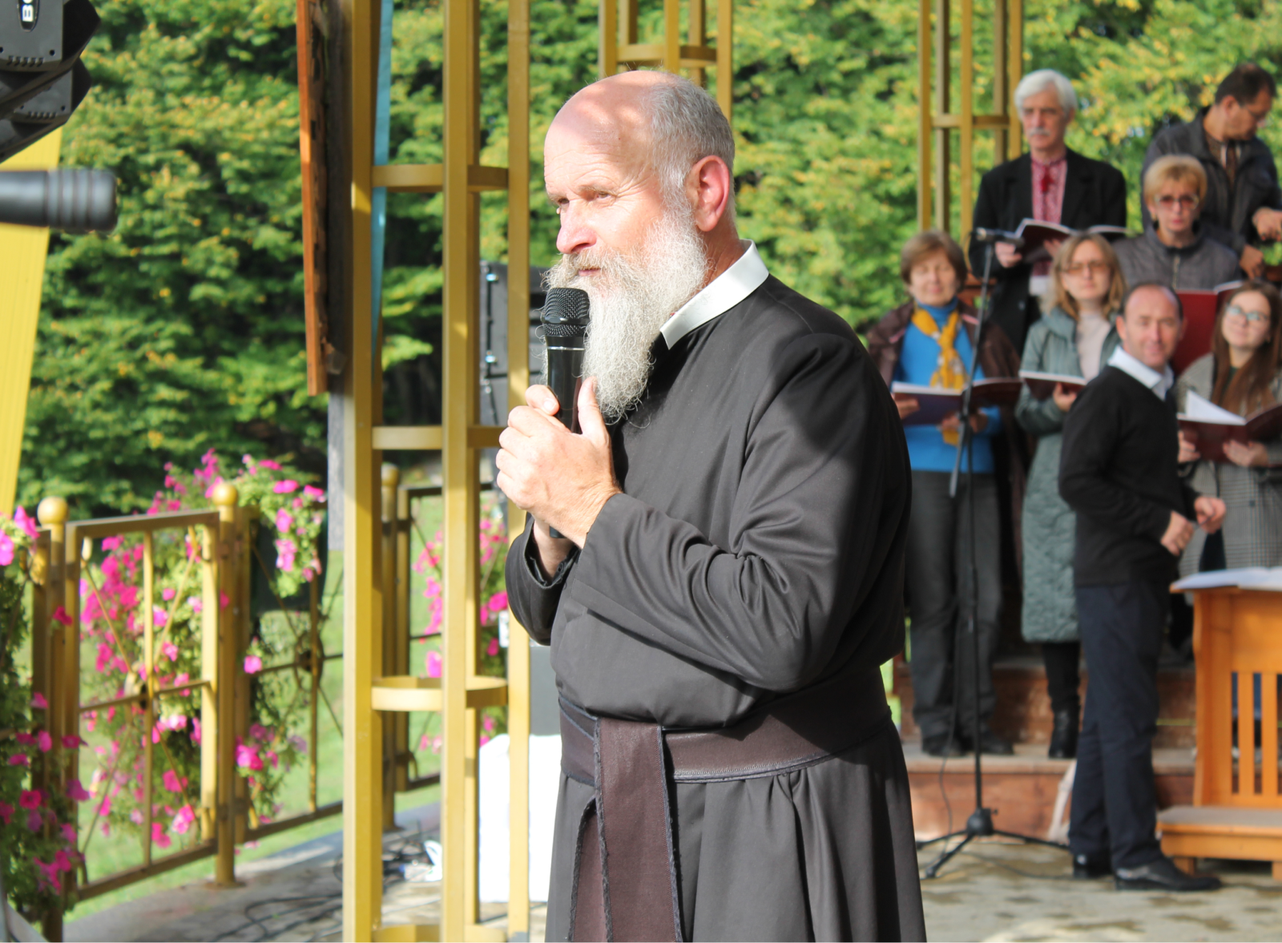
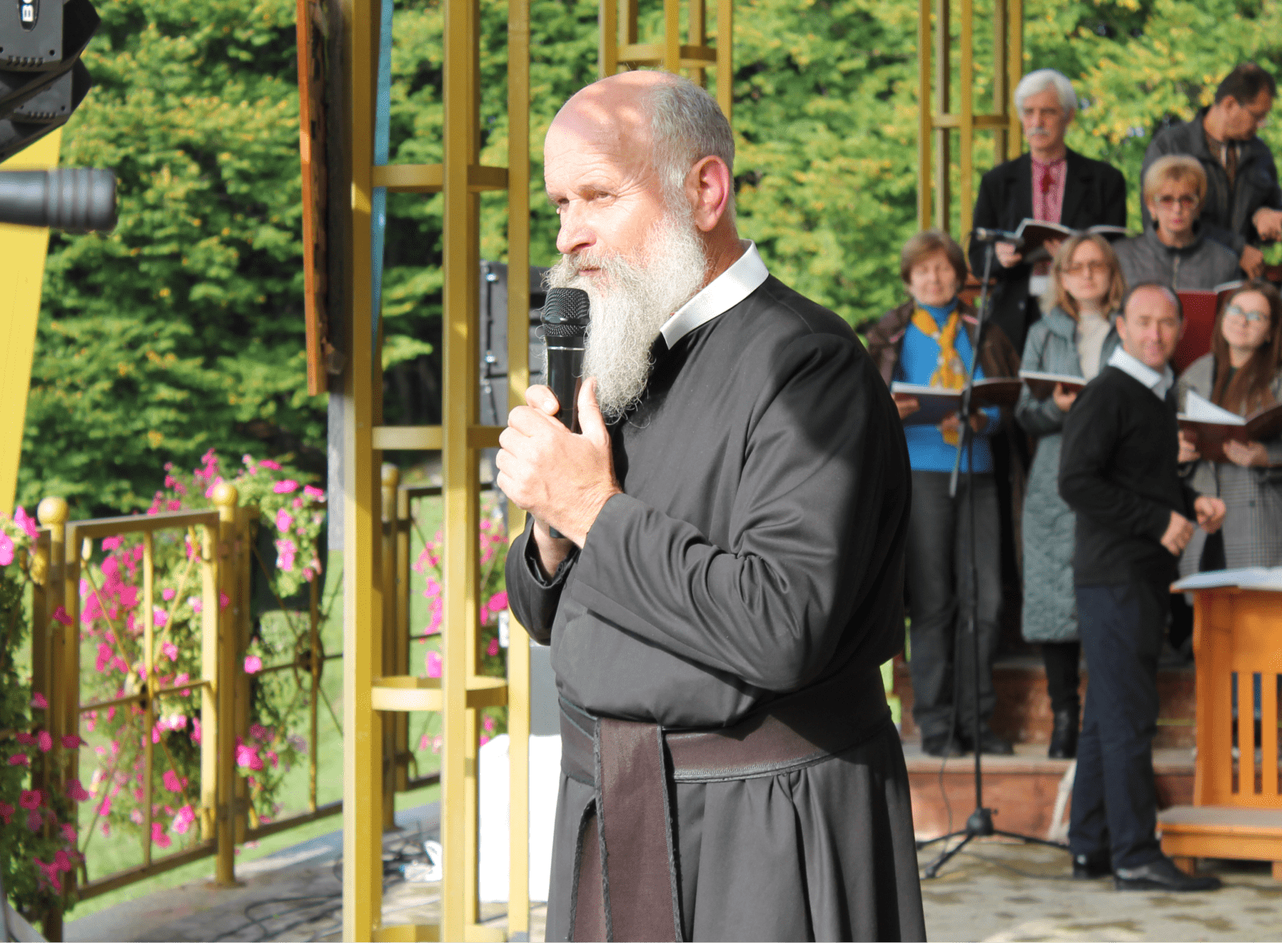
compress gallery images

Changed region(s): [[0.9688, 0.887, 1.0, 0.9176], [0.5312, 0.1835, 0.5625, 0.2141], [0.1875, 0.7952, 0.2188, 0.8258]]

diff --git a/app/homepage.html b/app/homepage.html
@@ -47,32 +47,33 @@
                 <li class="overlay-navigation-item"><a href="#">Видання</a></li>
                 <li class="overlay-navigation-item"><a href="#">Контакти</a></li>
             </ul>
-            
-            <a href="#" class="overlay-tel">+38 096 313 34 54</a>
-            <a href="#" class="overlay-email">pogonia@gmail.com</a>
-    <ul class="ovarlay-lang">
+            <ul class="ovarlay-lang">
         <li class="overlay-lang-item">UA</li>
         <li class="overlay-lang-item">Eng</li>
     </ul>
     <div class="overlay-icons">
       
-            <!-- header-right-icons-item -->
-            <a href="https://facebook.com/" target="_blank"><svg width="22" height="22" viewBox="0 0 22 22" fill="none" xmlns="http://www.w3.org/2000/svg">
-                <path d="M11 0C4.9247 0 0 4.9247 0 11C0 16.4901 4.0227 21.0408 9.2818 21.8669V14.179H6.4878V11H9.2818V8.5767C9.2818 5.8201 10.923 4.2977 13.4365 4.2977C14.6399 4.2977 15.8983 4.5122 15.8983 4.5122V7.2182H14.5123C13.145 7.2182 12.7193 8.0663 12.7193 8.9364V11H15.7696L15.2823 14.179H12.7193V21.8669C17.9773 21.0419 22 16.489 22 11C22 4.9247 17.0753 0 11 0Z" fill="black"/>
-                </svg>
-                
-                </a>
-            <a href="https://instagram.com/" target="_blank"><svg width="20" height="20" viewBox="0 0 20 20" fill="none" xmlns="http://www.w3.org/2000/svg">
-                <path d="M10 0C12.717 0 13.056 0.00999994 14.122 0.06C15.187 0.11 15.912 0.277 16.55 0.525C17.21 0.779 17.766 1.123 18.322 1.678C18.8305 2.1779 19.224 2.78259 19.475 3.45C19.722 4.087 19.89 4.813 19.94 5.878C19.987 6.944 20 7.283 20 10C20 12.717 19.99 13.056 19.94 14.122C19.89 15.187 19.722 15.912 19.475 16.55C19.2247 17.2178 18.8311 17.8226 18.322 18.322C17.822 18.8303 17.2173 19.2238 16.55 19.475C15.913 19.722 15.187 19.89 14.122 19.94C13.056 19.987 12.717 20 10 20C7.283 20 6.944 19.99 5.878 19.94C4.813 19.89 4.088 19.722 3.45 19.475C2.78233 19.2245 2.17753 18.8309 1.678 18.322C1.16941 17.8222 0.775931 17.2175 0.525 16.55C0.277 15.913 0.11 15.187 0.0599999 14.122C0.0129999 13.056 0 12.717 0 10C0 7.283 0.00999994 6.944 0.0599999 5.878C0.11 4.812 0.277 4.088 0.525 3.45C0.775236 2.78218 1.1688 2.17732 1.678 1.678C2.17767 1.16923 2.78243 0.77573 3.45 0.525C4.088 0.277 4.812 0.11 5.878 0.06C6.944 0.0129999 7.283 0 10 0ZM10 5C8.67392 5 7.40215 5.52679 6.46447 6.46447C5.52678 7.40215 5 8.67392 5 10C5 11.3261 5.52678 12.5979 6.46447 13.5355C7.40215 14.4732 8.67392 15 10 15C11.3261 15 12.5979 14.4732 13.5355 13.5355C14.4732 12.5979 15 11.3261 15 10C15 8.67392 14.4732 7.40215 13.5355 6.46447C12.5979 5.52679 11.3261 5 10 5ZM16.5 4.75C16.5 4.41848 16.3683 4.10054 16.1339 3.86612C15.8995 3.6317 15.5815 3.5 15.25 3.5C14.9185 3.5 14.6005 3.6317 14.3661 3.86612C14.1317 4.10054 14 4.41848 14 4.75C14 5.08152 14.1317 5.39946 14.3661 5.63388C14.6005 5.86831 14.9185 6 15.25 6C15.5815 6 15.8995 5.86831 16.1339 5.63388C16.3683 5.39946 16.5 5.08152 16.5 4.75ZM10 7C10.7956 7 11.5587 7.31607 12.1213 7.87868C12.6839 8.44129 13 9.20435 13 10C13 10.7957 12.6839 11.5587 12.1213 12.1213C11.5587 12.6839 10.7956 13 10 13C9.20435 13 8.44129 12.6839 7.87868 12.1213C7.31607 11.5587 7 10.7957 7 10C7 9.20435 7.31607 8.44129 7.87868 7.87868C8.44129 7.31607 9.20435 7 10 7Z" fill="black"/>
-                </svg>
-                
-                </a>
-            <a href="https://youtube.com/" target="_blank"><svg width="24" height="18" viewBox="0 0 24 18" fill="none" xmlns="http://www.w3.org/2000/svg">
-                <path d="M22.6034 2.88664C23.1111 4.86664 23.1111 8.99997 23.1111 8.99997C23.1111 8.99997 23.1111 13.1333 22.6034 15.1133C22.3211 16.2077 21.4956 17.0689 20.45 17.36C18.5511 17.8889 12 17.8889 12 17.8889C12 17.8889 5.45225 17.8889 3.55003 17.36C2.50003 17.0644 1.67558 16.2044 1.39669 15.1133C0.888916 13.1333 0.888916 8.99997 0.888916 8.99997C0.888916 8.99997 0.888916 4.86664 1.39669 2.88664C1.67892 1.79219 2.50447 0.931084 3.55003 0.639973C5.45225 0.111084 12 0.111084 12 0.111084C12 0.111084 18.5511 0.111084 20.45 0.639973C21.5 0.935528 22.3245 1.79553 22.6034 2.88664ZM9.77781 12.8889L16.4445 8.99997L9.77781 5.11108V12.8889Z" fill="black"/>
-                </svg>
-                
-  </a>
-    </div>
+        <!-- header-right-icons-item -->
+        <a href="https://facebook.com/" target="_blank"><svg width="22" height="22" viewBox="0 0 22 22" fill="none" xmlns="http://www.w3.org/2000/svg">
+            <path d="M11 0C4.9247 0 0 4.9247 0 11C0 16.4901 4.0227 21.0408 9.2818 21.8669V14.179H6.4878V11H9.2818V8.5767C9.2818 5.8201 10.923 4.2977 13.4365 4.2977C14.6399 4.2977 15.8983 4.5122 15.8983 4.5122V7.2182H14.5123C13.145 7.2182 12.7193 8.0663 12.7193 8.9364V11H15.7696L15.2823 14.179H12.7193V21.8669C17.9773 21.0419 22 16.489 22 11C22 4.9247 17.0753 0 11 0Z" fill="black"/>
+            </svg>
+            
+            </a>
+        <a href="https://instagram.com/" target="_blank"><svg width="20" height="20" viewBox="0 0 20 20" fill="none" xmlns="http://www.w3.org/2000/svg">
+            <path d="M10 0C12.717 0 13.056 0.00999994 14.122 0.06C15.187 0.11 15.912 0.277 16.55 0.525C17.21 0.779 17.766 1.123 18.322 1.678C18.8305 2.1779 19.224 2.78259 19.475 3.45C19.722 4.087 19.89 4.813 19.94 5.878C19.987 6.944 20 7.283 20 10C20 12.717 19.99 13.056 19.94 14.122C19.89 15.187 19.722 15.912 19.475 16.55C19.2247 17.2178 18.8311 17.8226 18.322 18.322C17.822 18.8303 17.2173 19.2238 16.55 19.475C15.913 19.722 15.187 19.89 14.122 19.94C13.056 19.987 12.717 20 10 20C7.283 20 6.944 19.99 5.878 19.94C4.813 19.89 4.088 19.722 3.45 19.475C2.78233 19.2245 2.17753 18.8309 1.678 18.322C1.16941 17.8222 0.775931 17.2175 0.525 16.55C0.277 15.913 0.11 15.187 0.0599999 14.122C0.0129999 13.056 0 12.717 0 10C0 7.283 0.00999994 6.944 0.0599999 5.878C0.11 4.812 0.277 4.088 0.525 3.45C0.775236 2.78218 1.1688 2.17732 1.678 1.678C2.17767 1.16923 2.78243 0.77573 3.45 0.525C4.088 0.277 4.812 0.11 5.878 0.06C6.944 0.0129999 7.283 0 10 0ZM10 5C8.67392 5 7.40215 5.52679 6.46447 6.46447C5.52678 7.40215 5 8.67392 5 10C5 11.3261 5.52678 12.5979 6.46447 13.5355C7.40215 14.4732 8.67392 15 10 15C11.3261 15 12.5979 14.4732 13.5355 13.5355C14.4732 12.5979 15 11.3261 15 10C15 8.67392 14.4732 7.40215 13.5355 6.46447C12.5979 5.52679 11.3261 5 10 5ZM16.5 4.75C16.5 4.41848 16.3683 4.10054 16.1339 3.86612C15.8995 3.6317 15.5815 3.5 15.25 3.5C14.9185 3.5 14.6005 3.6317 14.3661 3.86612C14.1317 4.10054 14 4.41848 14 4.75C14 5.08152 14.1317 5.39946 14.3661 5.63388C14.6005 5.86831 14.9185 6 15.25 6C15.5815 6 15.8995 5.86831 16.1339 5.63388C16.3683 5.39946 16.5 5.08152 16.5 4.75ZM10 7C10.7956 7 11.5587 7.31607 12.1213 7.87868C12.6839 8.44129 13 9.20435 13 10C13 10.7957 12.6839 11.5587 12.1213 12.1213C11.5587 12.6839 10.7956 13 10 13C9.20435 13 8.44129 12.6839 7.87868 12.1213C7.31607 11.5587 7 10.7957 7 10C7 9.20435 7.31607 8.44129 7.87868 7.87868C8.44129 7.31607 9.20435 7 10 7Z" fill="black"/>
+            </svg>
+            
+            </a>
+        <a href="https://youtube.com/" target="_blank"><svg width="24" height="18" viewBox="0 0 24 18" fill="none" xmlns="http://www.w3.org/2000/svg">
+            <path d="M22.6034 2.88664C23.1111 4.86664 23.1111 8.99997 23.1111 8.99997C23.1111 8.99997 23.1111 13.1333 22.6034 15.1133C22.3211 16.2077 21.4956 17.0689 20.45 17.36C18.5511 17.8889 12 17.8889 12 17.8889C12 17.8889 5.45225 17.8889 3.55003 17.36C2.50003 17.0644 1.67558 16.2044 1.39669 15.1133C0.888916 13.1333 0.888916 8.99997 0.888916 8.99997C0.888916 8.99997 0.888916 4.86664 1.39669 2.88664C1.67892 1.79219 2.50447 0.931084 3.55003 0.639973C5.45225 0.111084 12 0.111084 12 0.111084C12 0.111084 18.5511 0.111084 20.45 0.639973C21.5 0.935528 22.3245 1.79553 22.6034 2.88664ZM9.77781 12.8889L16.4445 8.99997L9.77781 5.11108V12.8889Z" fill="black"/>
+            </svg>
+            
+</a>
+</div>
+            <a href="#" class="overlay-tel">+38 096 313 34 54</a>
+            <a href="#" class="overlay-email">pogonia@gmail.com</a>
+    
+  
         </div>
       </div>
         <header class="header" data-aos="fade-zoom-in"  data-aos-duration="300" data-aos-easing="ease-in-back"
@@ -770,17 +771,20 @@
                 <a href="#" class="footer-phone">+38 096 313 34 54</a>
                 <a href="#" class="footer-email">pogonia@gmail.com</a>
                 <div class="footer-social-media">
-                    <a href="https://m.facebook.com/" target="_blank"><svg class="footer-social-med-item" width="20" height="20" viewBox="0 0 20 20" xmlns="http://www.w3.org/2000/svg">
-                        <path d="M10 0C4.477 0 0 4.477 0 10C0 14.991 3.657 19.128 8.438 19.879V12.89H5.898V10H8.438V7.797C8.438 5.291 9.93 3.907 12.215 3.907C13.309 3.907 14.453 4.102 14.453 4.102V6.562H13.193C11.95 6.562 11.563 7.333 11.563 8.124V10H14.336L13.893 12.89H11.563V19.879C16.343 19.129 20 14.99 20 10C20 4.477 15.523 0 10 0Z" fill="white"></path>
-                         </svg>
+                    <a href="https://m.facebook.com/" target="_blank"><svg class="header-right-icons-item" width="30" height="31" viewBox="0 0 30 31" fill="none" xmlns="http://www.w3.org/2000/svg">
+                        <path d="M15 3.27637C8.09625 3.27637 2.5 8.87262 2.5 15.7764C2.5 22.0151 7.07125 27.1864 13.0475 28.1251V19.3889H9.8725V15.7764H13.0475V13.0226C13.0475 9.89012 14.9125 8.16012 17.7688 8.16012C19.1363 8.16012 20.5662 8.40387 20.5662 8.40387V11.4789H18.9913C17.4375 11.4789 16.9538 12.4426 16.9538 13.4314V15.7764H20.42L19.8663 19.3889H16.9538V28.1251C22.9288 27.1876 27.5 22.0139 27.5 15.7764C27.5 8.87262 21.9038 3.27637 15 3.27637Z" fill="white"/>
+                        </svg>
+                        
 </a>
-                    <a href="https://www.instagram.com/"  target="_blank"><svg width="18" height="18" class="footer-social-med-item" viewBox="0 0 18 18"  xmlns="http://www.w3.org/2000/svg">
-                        <path d="M9 0C11.4453 0 11.7504 0.00899995 12.7098 0.054C13.6683 0.099 14.3208 0.2493 14.895 0.4725C15.489 0.7011 15.9894 1.0107 16.4898 1.5102C16.9474 1.96011 17.3016 2.50433 17.5275 3.105C17.7498 3.6783 17.901 4.3317 17.946 5.2902C17.9883 6.2496 18 6.5547 18 9C18 11.4453 17.991 11.7504 17.946 12.7098C17.901 13.6683 17.7498 14.3208 17.5275 14.895C17.3022 15.496 16.948 16.0404 16.4898 16.4898C16.0398 16.9473 15.4956 17.3014 14.895 17.5275C14.3217 17.7498 13.6683 17.901 12.7098 17.946C11.7504 17.9883 11.4453 18 9 18C6.5547 18 6.2496 17.991 5.2902 17.946C4.3317 17.901 3.6792 17.7498 3.105 17.5275C2.50409 17.302 1.95977 16.9479 1.5102 16.4898C1.05247 16.04 0.698338 15.4957 0.4725 14.895C0.2493 14.3217 0.0989999 13.6683 0.0539999 12.7098C0.0116999 11.7504 0 11.4453 0 9C0 6.5547 0.00899995 6.2496 0.0539999 5.2902C0.0989999 4.3308 0.2493 3.6792 0.4725 3.105C0.697713 2.50396 1.05192 1.95959 1.5102 1.5102C1.9599 1.05231 2.50419 0.698157 3.105 0.4725C3.6792 0.2493 4.3308 0.099 5.2902 0.054C6.2496 0.0117 6.5547 0 9 0ZM9 4.5C7.80653 4.5 6.66193 4.97411 5.81802 5.81802C4.97411 6.66193 4.5 7.80653 4.5 9C4.5 10.1935 4.97411 11.3381 5.81802 12.182C6.66193 13.0259 7.80653 13.5 9 13.5C10.1935 13.5 11.3381 13.0259 12.182 12.182C13.0259 11.3381 13.5 10.1935 13.5 9C13.5 7.80653 13.0259 6.66193 12.182 5.81802C11.3381 4.97411 10.1935 4.5 9 4.5ZM14.85 4.275C14.85 3.97663 14.7315 3.69048 14.5205 3.47951C14.3095 3.26853 14.0234 3.15 13.725 3.15C13.4266 3.15 13.1405 3.26853 12.9295 3.47951C12.7185 3.69048 12.6 3.97663 12.6 4.275C12.6 4.57337 12.7185 4.85952 12.9295 5.0705C13.1405 5.28147 13.4266 5.4 13.725 5.4C14.0234 5.4 14.3095 5.28147 14.5205 5.0705C14.7315 4.85952 14.85 4.57337 14.85 4.275ZM9 6.3C9.71608 6.3 10.4028 6.58446 10.9092 7.09081C11.4155 7.59716 11.7 8.28392 11.7 9C11.7 9.71609 11.4155 10.4028 10.9092 10.9092C10.4028 11.4155 9.71608 11.7 9 11.7C8.28392 11.7 7.59716 11.4155 7.09081 10.9092C6.58446 10.4028 6.3 9.71609 6.3 9C6.3 8.28392 6.58446 7.59716 7.09081 7.09081C7.59716 6.58446 8.28392 6.3 9 6.3Z" fill="white"></path>
-                    </svg>
+                    <a href="https://www.instagram.com/"  target="_blank"><svg class="header-right-icons-item" width="30" height="31" viewBox="0 0 30 31" fill="none" xmlns="http://www.w3.org/2000/svg">
+                        <path d="M15 4.52637C18.0566 4.52637 18.438 4.53762 19.6373 4.59387C20.8354 4.65012 21.651 4.83799 22.3688 5.11699C23.1113 5.40274 23.7368 5.78974 24.3623 6.41412C24.9343 6.9765 25.377 7.65678 25.6594 8.40762C25.9373 9.12424 26.1263 9.94099 26.1825 11.1391C26.2354 12.3384 26.25 12.7197 26.25 15.7764C26.25 18.833 26.2388 19.2144 26.1825 20.4136C26.1263 21.6117 25.9373 22.4274 25.6594 23.1451C25.3778 23.8964 24.935 24.5768 24.3623 25.1386C23.7997 25.7105 23.1195 26.1531 22.3688 26.4357C21.6521 26.7136 20.8354 26.9026 19.6373 26.9589C18.438 27.0117 18.0566 27.0264 15 27.0264C11.9434 27.0264 11.562 27.0151 10.3628 26.9589C9.16463 26.9026 8.349 26.7136 7.63125 26.4357C6.88012 26.1539 6.19972 25.7112 5.63775 25.1386C5.06558 24.5763 4.62292 23.896 4.34063 23.1451C4.06163 22.4285 3.87375 21.6117 3.8175 20.4136C3.76462 19.2144 3.75 18.833 3.75 15.7764C3.75 12.7197 3.76125 12.3384 3.8175 11.1391C3.87375 9.93987 4.06163 9.12537 4.34063 8.40762C4.62214 7.65632 5.0649 6.97585 5.63775 6.41412C6.19988 5.84175 6.88023 5.39906 7.63125 5.11699C8.349 4.83799 9.1635 4.65012 10.3628 4.59387C11.562 4.54099 11.9434 4.52637 15 4.52637ZM15 10.1514C13.5082 10.1514 12.0774 10.744 11.0225 11.7989C9.96763 12.8538 9.375 14.2845 9.375 15.7764C9.375 17.2682 9.96763 18.699 11.0225 19.7538C12.0774 20.8087 13.5082 21.4014 15 21.4014C16.4918 21.4014 17.9226 20.8087 18.9775 19.7538C20.0324 18.699 20.625 17.2682 20.625 15.7764C20.625 14.2845 20.0324 12.8538 18.9775 11.7989C17.9226 10.744 16.4918 10.1514 15 10.1514ZM22.3125 9.87012C22.3125 9.49716 22.1643 9.13947 21.9006 8.87575C21.6369 8.61203 21.2792 8.46387 20.9063 8.46387C20.5333 8.46387 20.1756 8.61203 19.9119 8.87575C19.6482 9.13947 19.5 9.49716 19.5 9.87012C19.5 10.2431 19.6482 10.6008 19.9119 10.8645C20.1756 11.1282 20.5333 11.2764 20.9063 11.2764C21.2792 11.2764 21.6369 11.1282 21.9006 10.8645C22.1643 10.6008 22.3125 10.2431 22.3125 9.87012ZM15 12.4014C15.8951 12.4014 16.7536 12.7569 17.3865 13.3899C18.0194 14.0228 18.375 14.8813 18.375 15.7764C18.375 16.6715 18.0194 17.5299 17.3865 18.1629C16.7536 18.7958 15.8951 19.1514 15 19.1514C14.1049 19.1514 13.2465 18.7958 12.6135 18.1629C11.9806 17.5299 11.625 16.6715 11.625 15.7764C11.625 14.8813 11.9806 14.0228 12.6135 13.3899C13.2465 12.7569 14.1049 12.4014 15 12.4014Z" fill="white"/>
+                        </svg>
+                        
 </a> 
-                    <a  href="https://www.youtube.com/"  target="_blank"><svg width="20" height="16" class="footer-social-med-item" viewBox="0 0 20 16"  xmlns="http://www.w3.org/2000/svg">
-                        <path d="M19.543 2.498C20 4.28 20 8 20 8C20 8 20 11.72 19.543 13.502C19.289 14.487 18.546 15.262 17.605 15.524C15.896 16 10 16 10 16C10 16 4.107 16 2.395 15.524C1.45 15.258 0.708 14.484 0.457 13.502C2.98023e-08 11.72 0 8 0 8C0 8 2.98023e-08 4.28 0.457 2.498C0.711 1.513 1.454 0.738 2.395 0.476C4.107 -1.78814e-07 10 0 10 0C10 0 15.896 -1.78814e-07 17.605 0.476C18.55 0.742 19.292 1.516 19.543 2.498ZM8 11.5L14 8L8 4.5V11.5Z" fill="white"></path>
-                        </svg></a>
+                    <a  href="https://www.youtube.com/"  target="_blank"><svg  class="header-right-icons-item" width="30" height="31" viewBox="0 0 30 31" fill="none" xmlns="http://www.w3.org/2000/svg">
+                        <path d="M26.9288 8.89887C27.5 11.1264 27.5 15.7764 27.5 15.7764C27.5 15.7764 27.5 20.4264 26.9288 22.6539C26.6113 23.8851 25.6825 24.8539 24.5063 25.1814C22.37 25.7764 15 25.7764 15 25.7764C15 25.7764 7.63375 25.7764 5.49375 25.1814C4.3125 24.8489 3.385 23.8814 3.07125 22.6539C2.5 20.4264 2.5 15.7764 2.5 15.7764C2.5 15.7764 2.5 11.1264 3.07125 8.89887C3.38875 7.66762 4.3175 6.69887 5.49375 6.37137C7.63375 5.77637 15 5.77637 15 5.77637C15 5.77637 22.37 5.77637 24.5063 6.37137C25.6875 6.70387 26.615 7.67137 26.9288 8.89887ZM12.5 20.1514L20 15.7764L12.5 11.4014V20.1514Z" fill="white"/>
+                        </svg>
+                        </a>
                 </div>
             </div>  
            

diff --git a/app/galery.html b/app/galery.html
@@ -90,9 +90,9 @@
     
 </header>
 
-<div id="myNav" class="overlay">
-    <ul class="overlay-navigation">
-        <li class="overlay-navigation-item"><a href="homepage.html">Головна</a></li>
+<div id="myNav" class="overlay" id="overlay-home">
+    <ul class="overlay-navigation" id="home-overlay-list">
+        <li class="overlay-navigation-item" id="home-list-item"><a href="homepage.html">Головна</a></li>
         <li class="overlay-navigation-item"><a href="homepage.html#aboutpogonya">Про Погоню</a></li>
         <li class="overlay-navigation-item"><a href="#">Про Отців</a></li>
         <li class="overlay-navigation-item"><a href="homepage.html#schedule">Розклад Богослужінь</a></li>
@@ -102,21 +102,24 @@
         <li class="overlay-navigation-item"><a href="#">Видання</a></li>
         <li class="overlay-navigation-item"><a href="#">Контакти</a></li>
     </ul>
- 
-    <p class="overlay-tel">+38 096 313 34 54</p>
-    <p class="overlay-email">pogonia@gmail.com</p>
+    
+    
     <ul class="ovarlay-lang">
         <li class="overlay-lang-item">UA</li>
         <li class="overlay-lang-item">Eng</li>
     </ul>
     <div class="overlay-icons">
-         <img src="img/icons/facebook-black.svg" alt="">
-         <img src="img/icons/instagram-black.svg" alt="">
-         <img src="img/icons/youtube-black.svg" alt="">
+        <img src="img/icons/facebook-black.svg" alt="">
+        <img src="img/icons/instagram-black.svg" alt="">
+        <img src="img/icons/youtube-black.svg" alt="">
     </div>
-   
+    <p class="overlay-tel">+38 096 313 34 54</p>
+    <p class="overlay-email">pogonia@gmail.com</p>
     
-   </div>
+    
+    </div>
+    
+    </div>
      <!-- <hr class="header-line"> -->
 
     <!-- end of the header -->
@@ -186,26 +189,29 @@
             <p class="footer-first-link"><a href="#">Контакти</a></p>
         </div>  
         <div class="footer-info">
-            <p class="footer-phone">+38 096 313 34 54</p>
-            <p class="footer-email">pogonia@gmail.com</p>
+            <a href="#" class="footer-phone">+38 096 313 34 54</a>
+            <a href="#" class="footer-email">pogonia@gmail.com</a>
             <div class="footer-social-media">
-                <a href="https://m.facebook.com/" target="_blank"><svg class="footer-social-med-item" width="20" height="20" viewBox="0 0 20 20" xmlns="http://www.w3.org/2000/svg">
-                    <path d="M10 0C4.477 0 0 4.477 0 10C0 14.991 3.657 19.128 8.438 19.879V12.89H5.898V10H8.438V7.797C8.438 5.291 9.93 3.907 12.215 3.907C13.309 3.907 14.453 4.102 14.453 4.102V6.562H13.193C11.95 6.562 11.563 7.333 11.563 8.124V10H14.336L13.893 12.89H11.563V19.879C16.343 19.129 20 14.99 20 10C20 4.477 15.523 0 10 0Z" fill="white"></path>
-                     </svg>
+                <a href="https://m.facebook.com/" target="_blank"><svg class="header-right-icons-item" width="30" height="31" viewBox="0 0 30 31" fill="none" xmlns="http://www.w3.org/2000/svg">
+                    <path d="M15 3.27637C8.09625 3.27637 2.5 8.87262 2.5 15.7764C2.5 22.0151 7.07125 27.1864 13.0475 28.1251V19.3889H9.8725V15.7764H13.0475V13.0226C13.0475 9.89012 14.9125 8.16012 17.7688 8.16012C19.1363 8.16012 20.5662 8.40387 20.5662 8.40387V11.4789H18.9913C17.4375 11.4789 16.9538 12.4426 16.9538 13.4314V15.7764H20.42L19.8663 19.3889H16.9538V28.1251C22.9288 27.1876 27.5 22.0139 27.5 15.7764C27.5 8.87262 21.9038 3.27637 15 3.27637Z" fill="white"/>
+                    </svg>
+                    
 </a>
-                <a href="https://www.instagram.com/"  target="_blank"><svg width="18" height="18" class="footer-social-med-item" viewBox="0 0 18 18"  xmlns="http://www.w3.org/2000/svg">
-                    <path d="M9 0C11.4453 0 11.7504 0.00899995 12.7098 0.054C13.6683 0.099 14.3208 0.2493 14.895 0.4725C15.489 0.7011 15.9894 1.0107 16.4898 1.5102C16.9474 1.96011 17.3016 2.50433 17.5275 3.105C17.7498 3.6783 17.901 4.3317 17.946 5.2902C17.9883 6.2496 18 6.5547 18 9C18 11.4453 17.991 11.7504 17.946 12.7098C17.901 13.6683 17.7498 14.3208 17.5275 14.895C17.3022 15.496 16.948 16.0404 16.4898 16.4898C16.0398 16.9473 15.4956 17.3014 14.895 17.5275C14.3217 17.7498 13.6683 17.901 12.7098 17.946C11.7504 17.9883 11.4453 18 9 18C6.5547 18 6.2496 17.991 5.2902 17.946C4.3317 17.901 3.6792 17.7498 3.105 17.5275C2.50409 17.302 1.95977 16.9479 1.5102 16.4898C1.05247 16.04 0.698338 15.4957 0.4725 14.895C0.2493 14.3217 0.0989999 13.6683 0.0539999 12.7098C0.0116999 11.7504 0 11.4453 0 9C0 6.5547 0.00899995 6.2496 0.0539999 5.2902C0.0989999 4.3308 0.2493 3.6792 0.4725 3.105C0.697713 2.50396 1.05192 1.95959 1.5102 1.5102C1.9599 1.05231 2.50419 0.698157 3.105 0.4725C3.6792 0.2493 4.3308 0.099 5.2902 0.054C6.2496 0.0117 6.5547 0 9 0ZM9 4.5C7.80653 4.5 6.66193 4.97411 5.81802 5.81802C4.97411 6.66193 4.5 7.80653 4.5 9C4.5 10.1935 4.97411 11.3381 5.81802 12.182C6.66193 13.0259 7.80653 13.5 9 13.5C10.1935 13.5 11.3381 13.0259 12.182 12.182C13.0259 11.3381 13.5 10.1935 13.5 9C13.5 7.80653 13.0259 6.66193 12.182 5.81802C11.3381 4.97411 10.1935 4.5 9 4.5ZM14.85 4.275C14.85 3.97663 14.7315 3.69048 14.5205 3.47951C14.3095 3.26853 14.0234 3.15 13.725 3.15C13.4266 3.15 13.1405 3.26853 12.9295 3.47951C12.7185 3.69048 12.6 3.97663 12.6 4.275C12.6 4.57337 12.7185 4.85952 12.9295 5.0705C13.1405 5.28147 13.4266 5.4 13.725 5.4C14.0234 5.4 14.3095 5.28147 14.5205 5.0705C14.7315 4.85952 14.85 4.57337 14.85 4.275ZM9 6.3C9.71608 6.3 10.4028 6.58446 10.9092 7.09081C11.4155 7.59716 11.7 8.28392 11.7 9C11.7 9.71609 11.4155 10.4028 10.9092 10.9092C10.4028 11.4155 9.71608 11.7 9 11.7C8.28392 11.7 7.59716 11.4155 7.09081 10.9092C6.58446 10.4028 6.3 9.71609 6.3 9C6.3 8.28392 6.58446 7.59716 7.09081 7.09081C7.59716 6.58446 8.28392 6.3 9 6.3Z" fill="white"></path>
-                </svg>
+                <a href="https://www.instagram.com/"  target="_blank"><svg class="header-right-icons-item" width="30" height="31" viewBox="0 0 30 31" fill="none" xmlns="http://www.w3.org/2000/svg">
+                    <path d="M15 4.52637C18.0566 4.52637 18.438 4.53762 19.6373 4.59387C20.8354 4.65012 21.651 4.83799 22.3688 5.11699C23.1113 5.40274 23.7368 5.78974 24.3623 6.41412C24.9343 6.9765 25.377 7.65678 25.6594 8.40762C25.9373 9.12424 26.1263 9.94099 26.1825 11.1391C26.2354 12.3384 26.25 12.7197 26.25 15.7764C26.25 18.833 26.2388 19.2144 26.1825 20.4136C26.1263 21.6117 25.9373 22.4274 25.6594 23.1451C25.3778 23.8964 24.935 24.5768 24.3623 25.1386C23.7997 25.7105 23.1195 26.1531 22.3688 26.4357C21.6521 26.7136 20.8354 26.9026 19.6373 26.9589C18.438 27.0117 18.0566 27.0264 15 27.0264C11.9434 27.0264 11.562 27.0151 10.3628 26.9589C9.16463 26.9026 8.349 26.7136 7.63125 26.4357C6.88012 26.1539 6.19972 25.7112 5.63775 25.1386C5.06558 24.5763 4.62292 23.896 4.34063 23.1451C4.06163 22.4285 3.87375 21.6117 3.8175 20.4136C3.76462 19.2144 3.75 18.833 3.75 15.7764C3.75 12.7197 3.76125 12.3384 3.8175 11.1391C3.87375 9.93987 4.06163 9.12537 4.34063 8.40762C4.62214 7.65632 5.0649 6.97585 5.63775 6.41412C6.19988 5.84175 6.88023 5.39906 7.63125 5.11699C8.349 4.83799 9.1635 4.65012 10.3628 4.59387C11.562 4.54099 11.9434 4.52637 15 4.52637ZM15 10.1514C13.5082 10.1514 12.0774 10.744 11.0225 11.7989C9.96763 12.8538 9.375 14.2845 9.375 15.7764C9.375 17.2682 9.96763 18.699 11.0225 19.7538C12.0774 20.8087 13.5082 21.4014 15 21.4014C16.4918 21.4014 17.9226 20.8087 18.9775 19.7538C20.0324 18.699 20.625 17.2682 20.625 15.7764C20.625 14.2845 20.0324 12.8538 18.9775 11.7989C17.9226 10.744 16.4918 10.1514 15 10.1514ZM22.3125 9.87012C22.3125 9.49716 22.1643 9.13947 21.9006 8.87575C21.6369 8.61203 21.2792 8.46387 20.9063 8.46387C20.5333 8.46387 20.1756 8.61203 19.9119 8.87575C19.6482 9.13947 19.5 9.49716 19.5 9.87012C19.5 10.2431 19.6482 10.6008 19.9119 10.8645C20.1756 11.1282 20.5333 11.2764 20.9063 11.2764C21.2792 11.2764 21.6369 11.1282 21.9006 10.8645C22.1643 10.6008 22.3125 10.2431 22.3125 9.87012ZM15 12.4014C15.8951 12.4014 16.7536 12.7569 17.3865 13.3899C18.0194 14.0228 18.375 14.8813 18.375 15.7764C18.375 16.6715 18.0194 17.5299 17.3865 18.1629C16.7536 18.7958 15.8951 19.1514 15 19.1514C14.1049 19.1514 13.2465 18.7958 12.6135 18.1629C11.9806 17.5299 11.625 16.6715 11.625 15.7764C11.625 14.8813 11.9806 14.0228 12.6135 13.3899C13.2465 12.7569 14.1049 12.4014 15 12.4014Z" fill="white"/>
+                    </svg>
+                    
 </a> 
-                <a  href="https://www.youtube.com/"  target="_blank"><svg width="20" height="16" class="footer-social-med-item" viewBox="0 0 20 16"  xmlns="http://www.w3.org/2000/svg">
-                    <path d="M19.543 2.498C20 4.28 20 8 20 8C20 8 20 11.72 19.543 13.502C19.289 14.487 18.546 15.262 17.605 15.524C15.896 16 10 16 10 16C10 16 4.107 16 2.395 15.524C1.45 15.258 0.708 14.484 0.457 13.502C2.98023e-08 11.72 0 8 0 8C0 8 2.98023e-08 4.28 0.457 2.498C0.711 1.513 1.454 0.738 2.395 0.476C4.107 -1.78814e-07 10 0 10 0C10 0 15.896 -1.78814e-07 17.605 0.476C18.55 0.742 19.292 1.516 19.543 2.498ZM8 11.5L14 8L8 4.5V11.5Z" fill="white"></path>
-                    </svg></a>
+                <a  href="https://www.youtube.com/"  target="_blank"><svg  class="header-right-icons-item" width="30" height="31" viewBox="0 0 30 31" fill="none" xmlns="http://www.w3.org/2000/svg">
+                    <path d="M26.9288 8.89887C27.5 11.1264 27.5 15.7764 27.5 15.7764C27.5 15.7764 27.5 20.4264 26.9288 22.6539C26.6113 23.8851 25.6825 24.8539 24.5063 25.1814C22.37 25.7764 15 25.7764 15 25.7764C15 25.7764 7.63375 25.7764 5.49375 25.1814C4.3125 24.8489 3.385 23.8814 3.07125 22.6539C2.5 20.4264 2.5 15.7764 2.5 15.7764C2.5 15.7764 2.5 11.1264 3.07125 8.89887C3.38875 7.66762 4.3175 6.69887 5.49375 6.37137C7.63375 5.77637 15 5.77637 15 5.77637C15 5.77637 22.37 5.77637 24.5063 6.37137C25.6875 6.70387 26.615 7.67137 26.9288 8.89887ZM12.5 20.1514L20 15.7764L12.5 11.4014V20.1514Z" fill="white"/>
+                    </svg>
+                    </a>
             </div>
         </div>  
        
         
         <div class="footer-third">
-            <button class="footer-donation"><a href="#">Пожертва</a></button>
+            <a href="#" class="footer-donation">Пожертва</a>
         </div>
     </div>
 </footer>

diff --git a/app/article.html b/app/article.html
@@ -97,22 +97,24 @@
         <li class="overlay-navigation-item"><a href="#">Видання</a></li>
         <li class="overlay-navigation-item"><a href="#">Контакти</a></li>
     </ul>
- 
-    <p class="overlay-tel">+38 096 313 34 54</p>
-    <p class="overlay-email">pogonia@gmail.com</p>
+    
+    
     <ul class="ovarlay-lang">
         <li class="overlay-lang-item">UA</li>
         <li class="overlay-lang-item">Eng</li>
     </ul>
     <div class="overlay-icons">
-         <img src="img/icons/facebook-black.svg" alt="">
-         <img src="img/icons/instagram-black.svg" alt="">
-         <img src="img/icons/youtube-black.svg" alt="">
+        <img src="img/icons/facebook-black.svg" alt="">
+        <img src="img/icons/instagram-black.svg" alt="">
+        <img src="img/icons/youtube-black.svg" alt="">
     </div>
-   </div>
-
-  </div>
+    <p class="overlay-tel">+38 096 313 34 54</p>
+    <p class="overlay-email">pogonia@gmail.com</p>
     
+    
+    </div>
+    
+    </div>
 
     <div class="article-content"  data-aos="fade-up" data-aos-duration="500">
         <p class="article-subtitle" >November 18, 2020</p>
@@ -232,26 +234,29 @@
                 <p class="footer-first-link"><a href="#">Контакти</a></p>
             </div>  
             <div class="footer-info">
-                <p class="footer-phone">+38 096 313 34 54</p>
-                <p class="footer-email">pogonia@gmail.com</p>
+                <a href="#" class="footer-phone">+38 096 313 34 54</a>
+                <a href="#" class="footer-email">pogonia@gmail.com</a>
                 <div class="footer-social-media">
-                    <a href="https://m.facebook.com/" target="_blank"><svg class="footer-social-med-item" width="20" height="20" viewBox="0 0 20 20" xmlns="http://www.w3.org/2000/svg">
-                        <path d="M10 0C4.477 0 0 4.477 0 10C0 14.991 3.657 19.128 8.438 19.879V12.89H5.898V10H8.438V7.797C8.438 5.291 9.93 3.907 12.215 3.907C13.309 3.907 14.453 4.102 14.453 4.102V6.562H13.193C11.95 6.562 11.563 7.333 11.563 8.124V10H14.336L13.893 12.89H11.563V19.879C16.343 19.129 20 14.99 20 10C20 4.477 15.523 0 10 0Z" fill="white"></path>
-                         </svg>
+                    <a href="https://m.facebook.com/" target="_blank"><svg class="header-right-icons-item" width="30" height="31" viewBox="0 0 30 31" fill="none" xmlns="http://www.w3.org/2000/svg">
+                        <path d="M15 3.27637C8.09625 3.27637 2.5 8.87262 2.5 15.7764C2.5 22.0151 7.07125 27.1864 13.0475 28.1251V19.3889H9.8725V15.7764H13.0475V13.0226C13.0475 9.89012 14.9125 8.16012 17.7688 8.16012C19.1363 8.16012 20.5662 8.40387 20.5662 8.40387V11.4789H18.9913C17.4375 11.4789 16.9538 12.4426 16.9538 13.4314V15.7764H20.42L19.8663 19.3889H16.9538V28.1251C22.9288 27.1876 27.5 22.0139 27.5 15.7764C27.5 8.87262 21.9038 3.27637 15 3.27637Z" fill="white"/>
+                        </svg>
+                        
 </a>
-                    <a href="https://www.instagram.com/"  target="_blank"><svg width="18" height="18" class="footer-social-med-item" viewBox="0 0 18 18"  xmlns="http://www.w3.org/2000/svg">
-                        <path d="M9 0C11.4453 0 11.7504 0.00899995 12.7098 0.054C13.6683 0.099 14.3208 0.2493 14.895 0.4725C15.489 0.7011 15.9894 1.0107 16.4898 1.5102C16.9474 1.96011 17.3016 2.50433 17.5275 3.105C17.7498 3.6783 17.901 4.3317 17.946 5.2902C17.9883 6.2496 18 6.5547 18 9C18 11.4453 17.991 11.7504 17.946 12.7098C17.901 13.6683 17.7498 14.3208 17.5275 14.895C17.3022 15.496 16.948 16.0404 16.4898 16.4898C16.0398 16.9473 15.4956 17.3014 14.895 17.5275C14.3217 17.7498 13.6683 17.901 12.7098 17.946C11.7504 17.9883 11.4453 18 9 18C6.5547 18 6.2496 17.991 5.2902 17.946C4.3317 17.901 3.6792 17.7498 3.105 17.5275C2.50409 17.302 1.95977 16.9479 1.5102 16.4898C1.05247 16.04 0.698338 15.4957 0.4725 14.895C0.2493 14.3217 0.0989999 13.6683 0.0539999 12.7098C0.0116999 11.7504 0 11.4453 0 9C0 6.5547 0.00899995 6.2496 0.0539999 5.2902C0.0989999 4.3308 0.2493 3.6792 0.4725 3.105C0.697713 2.50396 1.05192 1.95959 1.5102 1.5102C1.9599 1.05231 2.50419 0.698157 3.105 0.4725C3.6792 0.2493 4.3308 0.099 5.2902 0.054C6.2496 0.0117 6.5547 0 9 0ZM9 4.5C7.80653 4.5 6.66193 4.97411 5.81802 5.81802C4.97411 6.66193 4.5 7.80653 4.5 9C4.5 10.1935 4.97411 11.3381 5.81802 12.182C6.66193 13.0259 7.80653 13.5 9 13.5C10.1935 13.5 11.3381 13.0259 12.182 12.182C13.0259 11.3381 13.5 10.1935 13.5 9C13.5 7.80653 13.0259 6.66193 12.182 5.81802C11.3381 4.97411 10.1935 4.5 9 4.5ZM14.85 4.275C14.85 3.97663 14.7315 3.69048 14.5205 3.47951C14.3095 3.26853 14.0234 3.15 13.725 3.15C13.4266 3.15 13.1405 3.26853 12.9295 3.47951C12.7185 3.69048 12.6 3.97663 12.6 4.275C12.6 4.57337 12.7185 4.85952 12.9295 5.0705C13.1405 5.28147 13.4266 5.4 13.725 5.4C14.0234 5.4 14.3095 5.28147 14.5205 5.0705C14.7315 4.85952 14.85 4.57337 14.85 4.275ZM9 6.3C9.71608 6.3 10.4028 6.58446 10.9092 7.09081C11.4155 7.59716 11.7 8.28392 11.7 9C11.7 9.71609 11.4155 10.4028 10.9092 10.9092C10.4028 11.4155 9.71608 11.7 9 11.7C8.28392 11.7 7.59716 11.4155 7.09081 10.9092C6.58446 10.4028 6.3 9.71609 6.3 9C6.3 8.28392 6.58446 7.59716 7.09081 7.09081C7.59716 6.58446 8.28392 6.3 9 6.3Z" fill="white"></path>
-                    </svg>
+                    <a href="https://www.instagram.com/"  target="_blank"><svg class="header-right-icons-item" width="30" height="31" viewBox="0 0 30 31" fill="none" xmlns="http://www.w3.org/2000/svg">
+                        <path d="M15 4.52637C18.0566 4.52637 18.438 4.53762 19.6373 4.59387C20.8354 4.65012 21.651 4.83799 22.3688 5.11699C23.1113 5.40274 23.7368 5.78974 24.3623 6.41412C24.9343 6.9765 25.377 7.65678 25.6594 8.40762C25.9373 9.12424 26.1263 9.94099 26.1825 11.1391C26.2354 12.3384 26.25 12.7197 26.25 15.7764C26.25 18.833 26.2388 19.2144 26.1825 20.4136C26.1263 21.6117 25.9373 22.4274 25.6594 23.1451C25.3778 23.8964 24.935 24.5768 24.3623 25.1386C23.7997 25.7105 23.1195 26.1531 22.3688 26.4357C21.6521 26.7136 20.8354 26.9026 19.6373 26.9589C18.438 27.0117 18.0566 27.0264 15 27.0264C11.9434 27.0264 11.562 27.0151 10.3628 26.9589C9.16463 26.9026 8.349 26.7136 7.63125 26.4357C6.88012 26.1539 6.19972 25.7112 5.63775 25.1386C5.06558 24.5763 4.62292 23.896 4.34063 23.1451C4.06163 22.4285 3.87375 21.6117 3.8175 20.4136C3.76462 19.2144 3.75 18.833 3.75 15.7764C3.75 12.7197 3.76125 12.3384 3.8175 11.1391C3.87375 9.93987 4.06163 9.12537 4.34063 8.40762C4.62214 7.65632 5.0649 6.97585 5.63775 6.41412C6.19988 5.84175 6.88023 5.39906 7.63125 5.11699C8.349 4.83799 9.1635 4.65012 10.3628 4.59387C11.562 4.54099 11.9434 4.52637 15 4.52637ZM15 10.1514C13.5082 10.1514 12.0774 10.744 11.0225 11.7989C9.96763 12.8538 9.375 14.2845 9.375 15.7764C9.375 17.2682 9.96763 18.699 11.0225 19.7538C12.0774 20.8087 13.5082 21.4014 15 21.4014C16.4918 21.4014 17.9226 20.8087 18.9775 19.7538C20.0324 18.699 20.625 17.2682 20.625 15.7764C20.625 14.2845 20.0324 12.8538 18.9775 11.7989C17.9226 10.744 16.4918 10.1514 15 10.1514ZM22.3125 9.87012C22.3125 9.49716 22.1643 9.13947 21.9006 8.87575C21.6369 8.61203 21.2792 8.46387 20.9063 8.46387C20.5333 8.46387 20.1756 8.61203 19.9119 8.87575C19.6482 9.13947 19.5 9.49716 19.5 9.87012C19.5 10.2431 19.6482 10.6008 19.9119 10.8645C20.1756 11.1282 20.5333 11.2764 20.9063 11.2764C21.2792 11.2764 21.6369 11.1282 21.9006 10.8645C22.1643 10.6008 22.3125 10.2431 22.3125 9.87012ZM15 12.4014C15.8951 12.4014 16.7536 12.7569 17.3865 13.3899C18.0194 14.0228 18.375 14.8813 18.375 15.7764C18.375 16.6715 18.0194 17.5299 17.3865 18.1629C16.7536 18.7958 15.8951 19.1514 15 19.1514C14.1049 19.1514 13.2465 18.7958 12.6135 18.1629C11.9806 17.5299 11.625 16.6715 11.625 15.7764C11.625 14.8813 11.9806 14.0228 12.6135 13.3899C13.2465 12.7569 14.1049 12.4014 15 12.4014Z" fill="white"/>
+                        </svg>
+                        
 </a> 
-                    <a  href="https://www.youtube.com/"  target="_blank"><svg width="20" height="16" class="footer-social-med-item" viewBox="0 0 20 16"  xmlns="http://www.w3.org/2000/svg">
-                        <path d="M19.543 2.498C20 4.28 20 8 20 8C20 8 20 11.72 19.543 13.502C19.289 14.487 18.546 15.262 17.605 15.524C15.896 16 10 16 10 16C10 16 4.107 16 2.395 15.524C1.45 15.258 0.708 14.484 0.457 13.502C2.98023e-08 11.72 0 8 0 8C0 8 2.98023e-08 4.28 0.457 2.498C0.711 1.513 1.454 0.738 2.395 0.476C4.107 -1.78814e-07 10 0 10 0C10 0 15.896 -1.78814e-07 17.605 0.476C18.55 0.742 19.292 1.516 19.543 2.498ZM8 11.5L14 8L8 4.5V11.5Z" fill="white"></path>
-                        </svg></a>
+                    <a  href="https://www.youtube.com/"  target="_blank"><svg  class="header-right-icons-item" width="30" height="31" viewBox="0 0 30 31" fill="none" xmlns="http://www.w3.org/2000/svg">
+                        <path d="M26.9288 8.89887C27.5 11.1264 27.5 15.7764 27.5 15.7764C27.5 15.7764 27.5 20.4264 26.9288 22.6539C26.6113 23.8851 25.6825 24.8539 24.5063 25.1814C22.37 25.7764 15 25.7764 15 25.7764C15 25.7764 7.63375 25.7764 5.49375 25.1814C4.3125 24.8489 3.385 23.8814 3.07125 22.6539C2.5 20.4264 2.5 15.7764 2.5 15.7764C2.5 15.7764 2.5 11.1264 3.07125 8.89887C3.38875 7.66762 4.3175 6.69887 5.49375 6.37137C7.63375 5.77637 15 5.77637 15 5.77637C15 5.77637 22.37 5.77637 24.5063 6.37137C25.6875 6.70387 26.615 7.67137 26.9288 8.89887ZM12.5 20.1514L20 15.7764L12.5 11.4014V20.1514Z" fill="white"/>
+                        </svg>
+                        </a>
                 </div>
             </div>  
            
             
             <div class="footer-third">
-                <button class="footer-donation"><a href="#">Пожертва</a></button>
+                <a href="#" class="footer-donation">Пожертва</a>
             </div>
         </div>
     </footer>

diff --git a/app/map.html b/app/map.html
@@ -92,17 +92,20 @@
     <li class="overlay-navigation-item"><a href="#">Контакти</a></li>
 </ul>
 
-<p class="overlay-tel">+38 096 313 34 54</p>
-<p class="overlay-email">pogonia@gmail.com</p>
+
 <ul class="ovarlay-lang">
     <li class="overlay-lang-item">UA</li>
     <li class="overlay-lang-item">Eng</li>
 </ul>
 <div class="overlay-icons">
-     <img src="img/icons/facebook-black.svg" alt="">
-     <img src="img/icons/instagram-black.svg" alt="">
-     <img src="img/icons/youtube-black.svg" alt="">
+    <img src="img/icons/facebook-black.svg" alt="">
+    <img src="img/icons/instagram-black.svg" alt="">
+    <img src="img/icons/youtube-black.svg" alt="">
 </div>
+<p class="overlay-tel">+38 096 313 34 54</p>
+<p class="overlay-email">pogonia@gmail.com</p>
+
+
 </div>
 
 </div>
@@ -255,26 +258,29 @@
             <p class="footer-first-link"><a href="#">Контакти</a></p>
         </div>  
         <div class="footer-info">
-            <p class="footer-phone">+38 096 313 34 54</p>
-            <p class="footer-email">pogonia@gmail.com</p>
+            <a href="#" class="footer-phone">+38 096 313 34 54</a>
+            <a href="#" class="footer-email">pogonia@gmail.com</a>
             <div class="footer-social-media">
-                <a href="https://m.facebook.com/" target="_blank"><svg class="footer-social-med-item" width="20" height="20" viewBox="0 0 20 20" xmlns="http://www.w3.org/2000/svg">
-                    <path d="M10 0C4.477 0 0 4.477 0 10C0 14.991 3.657 19.128 8.438 19.879V12.89H5.898V10H8.438V7.797C8.438 5.291 9.93 3.907 12.215 3.907C13.309 3.907 14.453 4.102 14.453 4.102V6.562H13.193C11.95 6.562 11.563 7.333 11.563 8.124V10H14.336L13.893 12.89H11.563V19.879C16.343 19.129 20 14.99 20 10C20 4.477 15.523 0 10 0Z" fill="white"></path>
-                     </svg>
+                <a href="https://m.facebook.com/" target="_blank"><svg class="header-right-icons-item" width="30" height="31" viewBox="0 0 30 31" fill="none" xmlns="http://www.w3.org/2000/svg">
+                    <path d="M15 3.27637C8.09625 3.27637 2.5 8.87262 2.5 15.7764C2.5 22.0151 7.07125 27.1864 13.0475 28.1251V19.3889H9.8725V15.7764H13.0475V13.0226C13.0475 9.89012 14.9125 8.16012 17.7688 8.16012C19.1363 8.16012 20.5662 8.40387 20.5662 8.40387V11.4789H18.9913C17.4375 11.4789 16.9538 12.4426 16.9538 13.4314V15.7764H20.42L19.8663 19.3889H16.9538V28.1251C22.9288 27.1876 27.5 22.0139 27.5 15.7764C27.5 8.87262 21.9038 3.27637 15 3.27637Z" fill="white"/>
+                    </svg>
+                    
 </a>
-                <a href="https://www.instagram.com/"  target="_blank"><svg width="18" height="18" class="footer-social-med-item" viewBox="0 0 18 18"  xmlns="http://www.w3.org/2000/svg">
-                    <path d="M9 0C11.4453 0 11.7504 0.00899995 12.7098 0.054C13.6683 0.099 14.3208 0.2493 14.895 0.4725C15.489 0.7011 15.9894 1.0107 16.4898 1.5102C16.9474 1.96011 17.3016 2.50433 17.5275 3.105C17.7498 3.6783 17.901 4.3317 17.946 5.2902C17.9883 6.2496 18 6.5547 18 9C18 11.4453 17.991 11.7504 17.946 12.7098C17.901 13.6683 17.7498 14.3208 17.5275 14.895C17.3022 15.496 16.948 16.0404 16.4898 16.4898C16.0398 16.9473 15.4956 17.3014 14.895 17.5275C14.3217 17.7498 13.6683 17.901 12.7098 17.946C11.7504 17.9883 11.4453 18 9 18C6.5547 18 6.2496 17.991 5.2902 17.946C4.3317 17.901 3.6792 17.7498 3.105 17.5275C2.50409 17.302 1.95977 16.9479 1.5102 16.4898C1.05247 16.04 0.698338 15.4957 0.4725 14.895C0.2493 14.3217 0.0989999 13.6683 0.0539999 12.7098C0.0116999 11.7504 0 11.4453 0 9C0 6.5547 0.00899995 6.2496 0.0539999 5.2902C0.0989999 4.3308 0.2493 3.6792 0.4725 3.105C0.697713 2.50396 1.05192 1.95959 1.5102 1.5102C1.9599 1.05231 2.50419 0.698157 3.105 0.4725C3.6792 0.2493 4.3308 0.099 5.2902 0.054C6.2496 0.0117 6.5547 0 9 0ZM9 4.5C7.80653 4.5 6.66193 4.97411 5.81802 5.81802C4.97411 6.66193 4.5 7.80653 4.5 9C4.5 10.1935 4.97411 11.3381 5.81802 12.182C6.66193 13.0259 7.80653 13.5 9 13.5C10.1935 13.5 11.3381 13.0259 12.182 12.182C13.0259 11.3381 13.5 10.1935 13.5 9C13.5 7.80653 13.0259 6.66193 12.182 5.81802C11.3381 4.97411 10.1935 4.5 9 4.5ZM14.85 4.275C14.85 3.97663 14.7315 3.69048 14.5205 3.47951C14.3095 3.26853 14.0234 3.15 13.725 3.15C13.4266 3.15 13.1405 3.26853 12.9295 3.47951C12.7185 3.69048 12.6 3.97663 12.6 4.275C12.6 4.57337 12.7185 4.85952 12.9295 5.0705C13.1405 5.28147 13.4266 5.4 13.725 5.4C14.0234 5.4 14.3095 5.28147 14.5205 5.0705C14.7315 4.85952 14.85 4.57337 14.85 4.275ZM9 6.3C9.71608 6.3 10.4028 6.58446 10.9092 7.09081C11.4155 7.59716 11.7 8.28392 11.7 9C11.7 9.71609 11.4155 10.4028 10.9092 10.9092C10.4028 11.4155 9.71608 11.7 9 11.7C8.28392 11.7 7.59716 11.4155 7.09081 10.9092C6.58446 10.4028 6.3 9.71609 6.3 9C6.3 8.28392 6.58446 7.59716 7.09081 7.09081C7.59716 6.58446 8.28392 6.3 9 6.3Z" fill="white"></path>
-                </svg>
+                <a href="https://www.instagram.com/"  target="_blank"><svg class="header-right-icons-item" width="30" height="31" viewBox="0 0 30 31" fill="none" xmlns="http://www.w3.org/2000/svg">
+                    <path d="M15 4.52637C18.0566 4.52637 18.438 4.53762 19.6373 4.59387C20.8354 4.65012 21.651 4.83799 22.3688 5.11699C23.1113 5.40274 23.7368 5.78974 24.3623 6.41412C24.9343 6.9765 25.377 7.65678 25.6594 8.40762C25.9373 9.12424 26.1263 9.94099 26.1825 11.1391C26.2354 12.3384 26.25 12.7197 26.25 15.7764C26.25 18.833 26.2388 19.2144 26.1825 20.4136C26.1263 21.6117 25.9373 22.4274 25.6594 23.1451C25.3778 23.8964 24.935 24.5768 24.3623 25.1386C23.7997 25.7105 23.1195 26.1531 22.3688 26.4357C21.6521 26.7136 20.8354 26.9026 19.6373 26.9589C18.438 27.0117 18.0566 27.0264 15 27.0264C11.9434 27.0264 11.562 27.0151 10.3628 26.9589C9.16463 26.9026 8.349 26.7136 7.63125 26.4357C6.88012 26.1539 6.19972 25.7112 5.63775 25.1386C5.06558 24.5763 4.62292 23.896 4.34063 23.1451C4.06163 22.4285 3.87375 21.6117 3.8175 20.4136C3.76462 19.2144 3.75 18.833 3.75 15.7764C3.75 12.7197 3.76125 12.3384 3.8175 11.1391C3.87375 9.93987 4.06163 9.12537 4.34063 8.40762C4.62214 7.65632 5.0649 6.97585 5.63775 6.41412C6.19988 5.84175 6.88023 5.39906 7.63125 5.11699C8.349 4.83799 9.1635 4.65012 10.3628 4.59387C11.562 4.54099 11.9434 4.52637 15 4.52637ZM15 10.1514C13.5082 10.1514 12.0774 10.744 11.0225 11.7989C9.96763 12.8538 9.375 14.2845 9.375 15.7764C9.375 17.2682 9.96763 18.699 11.0225 19.7538C12.0774 20.8087 13.5082 21.4014 15 21.4014C16.4918 21.4014 17.9226 20.8087 18.9775 19.7538C20.0324 18.699 20.625 17.2682 20.625 15.7764C20.625 14.2845 20.0324 12.8538 18.9775 11.7989C17.9226 10.744 16.4918 10.1514 15 10.1514ZM22.3125 9.87012C22.3125 9.49716 22.1643 9.13947 21.9006 8.87575C21.6369 8.61203 21.2792 8.46387 20.9063 8.46387C20.5333 8.46387 20.1756 8.61203 19.9119 8.87575C19.6482 9.13947 19.5 9.49716 19.5 9.87012C19.5 10.2431 19.6482 10.6008 19.9119 10.8645C20.1756 11.1282 20.5333 11.2764 20.9063 11.2764C21.2792 11.2764 21.6369 11.1282 21.9006 10.8645C22.1643 10.6008 22.3125 10.2431 22.3125 9.87012ZM15 12.4014C15.8951 12.4014 16.7536 12.7569 17.3865 13.3899C18.0194 14.0228 18.375 14.8813 18.375 15.7764C18.375 16.6715 18.0194 17.5299 17.3865 18.1629C16.7536 18.7958 15.8951 19.1514 15 19.1514C14.1049 19.1514 13.2465 18.7958 12.6135 18.1629C11.9806 17.5299 11.625 16.6715 11.625 15.7764C11.625 14.8813 11.9806 14.0228 12.6135 13.3899C13.2465 12.7569 14.1049 12.4014 15 12.4014Z" fill="white"/>
+                    </svg>
+                    
 </a> 
-                <a  href="https://www.youtube.com/"  target="_blank"><svg width="20" height="16" class="footer-social-med-item" viewBox="0 0 20 16"  xmlns="http://www.w3.org/2000/svg">
-                    <path d="M19.543 2.498C20 4.28 20 8 20 8C20 8 20 11.72 19.543 13.502C19.289 14.487 18.546 15.262 17.605 15.524C15.896 16 10 16 10 16C10 16 4.107 16 2.395 15.524C1.45 15.258 0.708 14.484 0.457 13.502C2.98023e-08 11.72 0 8 0 8C0 8 2.98023e-08 4.28 0.457 2.498C0.711 1.513 1.454 0.738 2.395 0.476C4.107 -1.78814e-07 10 0 10 0C10 0 15.896 -1.78814e-07 17.605 0.476C18.55 0.742 19.292 1.516 19.543 2.498ZM8 11.5L14 8L8 4.5V11.5Z" fill="white"></path>
-                    </svg></a>
+                <a  href="https://www.youtube.com/"  target="_blank"><svg  class="header-right-icons-item" width="30" height="31" viewBox="0 0 30 31" fill="none" xmlns="http://www.w3.org/2000/svg">
+                    <path d="M26.9288 8.89887C27.5 11.1264 27.5 15.7764 27.5 15.7764C27.5 15.7764 27.5 20.4264 26.9288 22.6539C26.6113 23.8851 25.6825 24.8539 24.5063 25.1814C22.37 25.7764 15 25.7764 15 25.7764C15 25.7764 7.63375 25.7764 5.49375 25.1814C4.3125 24.8489 3.385 23.8814 3.07125 22.6539C2.5 20.4264 2.5 15.7764 2.5 15.7764C2.5 15.7764 2.5 11.1264 3.07125 8.89887C3.38875 7.66762 4.3175 6.69887 5.49375 6.37137C7.63375 5.77637 15 5.77637 15 5.77637C15 5.77637 22.37 5.77637 24.5063 6.37137C25.6875 6.70387 26.615 7.67137 26.9288 8.89887ZM12.5 20.1514L20 15.7764L12.5 11.4014V20.1514Z" fill="white"/>
+                    </svg>
+                    </a>
             </div>
         </div>  
        
         
         <div class="footer-third">
-            <button class="footer-donation"><a href="#">Пожертва</a></button>
+            <a href="#" class="footer-donation">Пожертва</a>
         </div>
     </div>
 </footer>

diff --git a/app/css/style.css b/app/css/style.css
@@ -2911,6 +2911,10 @@ footer {
   margin-top: 20px;
   position: relative; }
 
+.ovarlay-lang {
+  margin-top: 30px;
+  margin-bottom: 30px; }
+
 #home-overlay-list {
   margin-top: 100px !important; }
 

diff --git a/app/sass/burger-menu.scss b/app/sass/burger-menu.scss
@@ -9,6 +9,10 @@
   margin-top: 20px;
   position: relative;
 }
+.ovarlay-lang{
+    margin-top: 30px;
+    margin-bottom: 30px;
+}
 #home-overlay-list{
     margin-top: 100px !important;
 }

diff --git a/app/css/burger-menu.css b/app/css/burger-menu.css
@@ -9,6 +9,10 @@
   margin-top: 20px;
   position: relative; }
 
+.ovarlay-lang {
+  margin-top: 30px;
+  margin-bottom: 30px; }
+
 #home-overlay-list {
   margin-top: 100px !important; }
 
